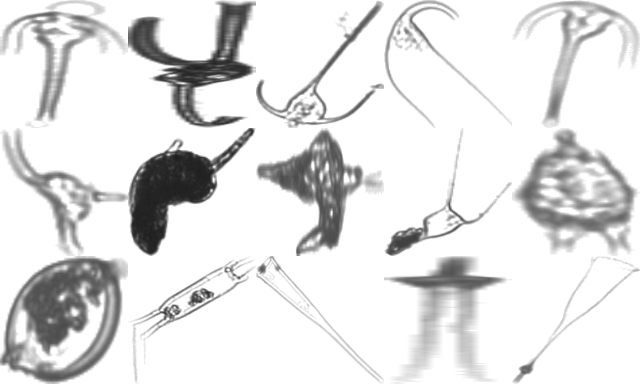
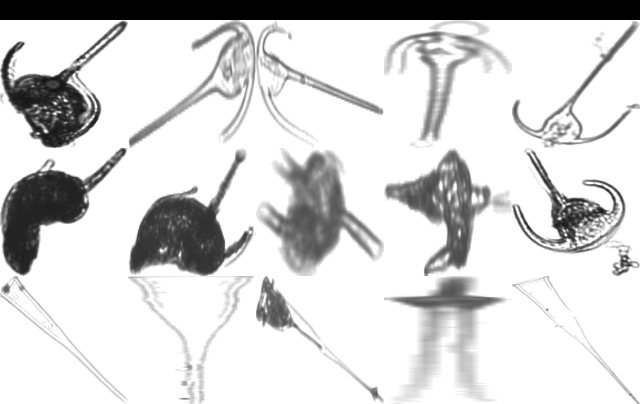
pil text

diff --git a/dimensionality_reduction.py b/dimensionality_reduction.py
@@ -8,7 +8,7 @@ from configfile import *
 from scipy.spatial.distance import cdist
 from dataloader import FlowCamDataSet
 import torchvision.transforms.functional as F
-from PIL import Image
+from PIL import Image, ImageDraw
 
 def sample_df(df, n=100):
     if n > df.shape[0]:
@@ -62,6 +62,7 @@ if __name__ == "__main__":
     fig.tight_layout()
     plt.savefig("umap_embeddings.png")
     
+    # The following code is a bit messy, and will probably never get cleaned up. So sorry about that.
     # Find samples closest to and furthest away from class center
     dataset = FlowCamDataSet(class_names, image_size)
     df_projections_train = pd.DataFrame(df_projection_train, index=df_train.index, columns=["x", "y"])
@@ -84,10 +85,7 @@ if __name__ == "__main__":
         closest_images = torch.cat([dataset[i][0] for i in closest["image_idx"].tolist()], dim=2)
         furthest_images = torch.cat([dataset[i][0] for i in furthest["image_idx"].tolist()], dim=2)
         in_class_images.append(torch.cat((closest_images, furthest_images), dim=1))
-        
-        #image = F.to_pil_image(torch.cat((closest_images, furthest_images), dim=1))
-        #image.save(f"closest_and_furthest_images_class_{i}.png")
-    
+    # Find images from other classes that are closest to this class
     df_classes = pd.concat(df_classes, axis=0)
     for i, center in zip(class_idx, centers):
         df_other_classes = df_classes.loc[df_classes["label_idx"] != i].iloc[:,:-1]
@@ -96,11 +94,13 @@ if __name__ == "__main__":
         closest = df_other_classes.sort_values(by=["distance_to_center"]).iloc[:5, :]
         closest_images = torch.cat([dataset[i][0] for i in closest["image_idx"].tolist()], dim=2)
         other_class_images.append(closest_images)
-        #image = F.to_pil_image(closest_images)
-        #image.save(f"other_class_closest_to_class_{i}.png")
-
+    # Save images
     for i in range(len(in_class_images)):
-        image = torch.cat([in_class_images[i], other_class_images[i]], dim=1)
+        header_text = Image.new('RGB', (in_class_images[i].shape[2], 20), color=(255, 255, 255))
+        draw = ImageDraw.Draw(header_text)
+        draw.text((10, 10), "TEST TEST TEST", fill=(0, 0, 0))
+        header_text = F.pil_to_tensor(header_text) 
+        image = torch.cat([header_text, in_class_images[i], other_class_images[i]], dim=1)
         image = F.to_pil_image(image)
         image.save(f"close_faraway_closeotherclass_class_{i}.png")
 
